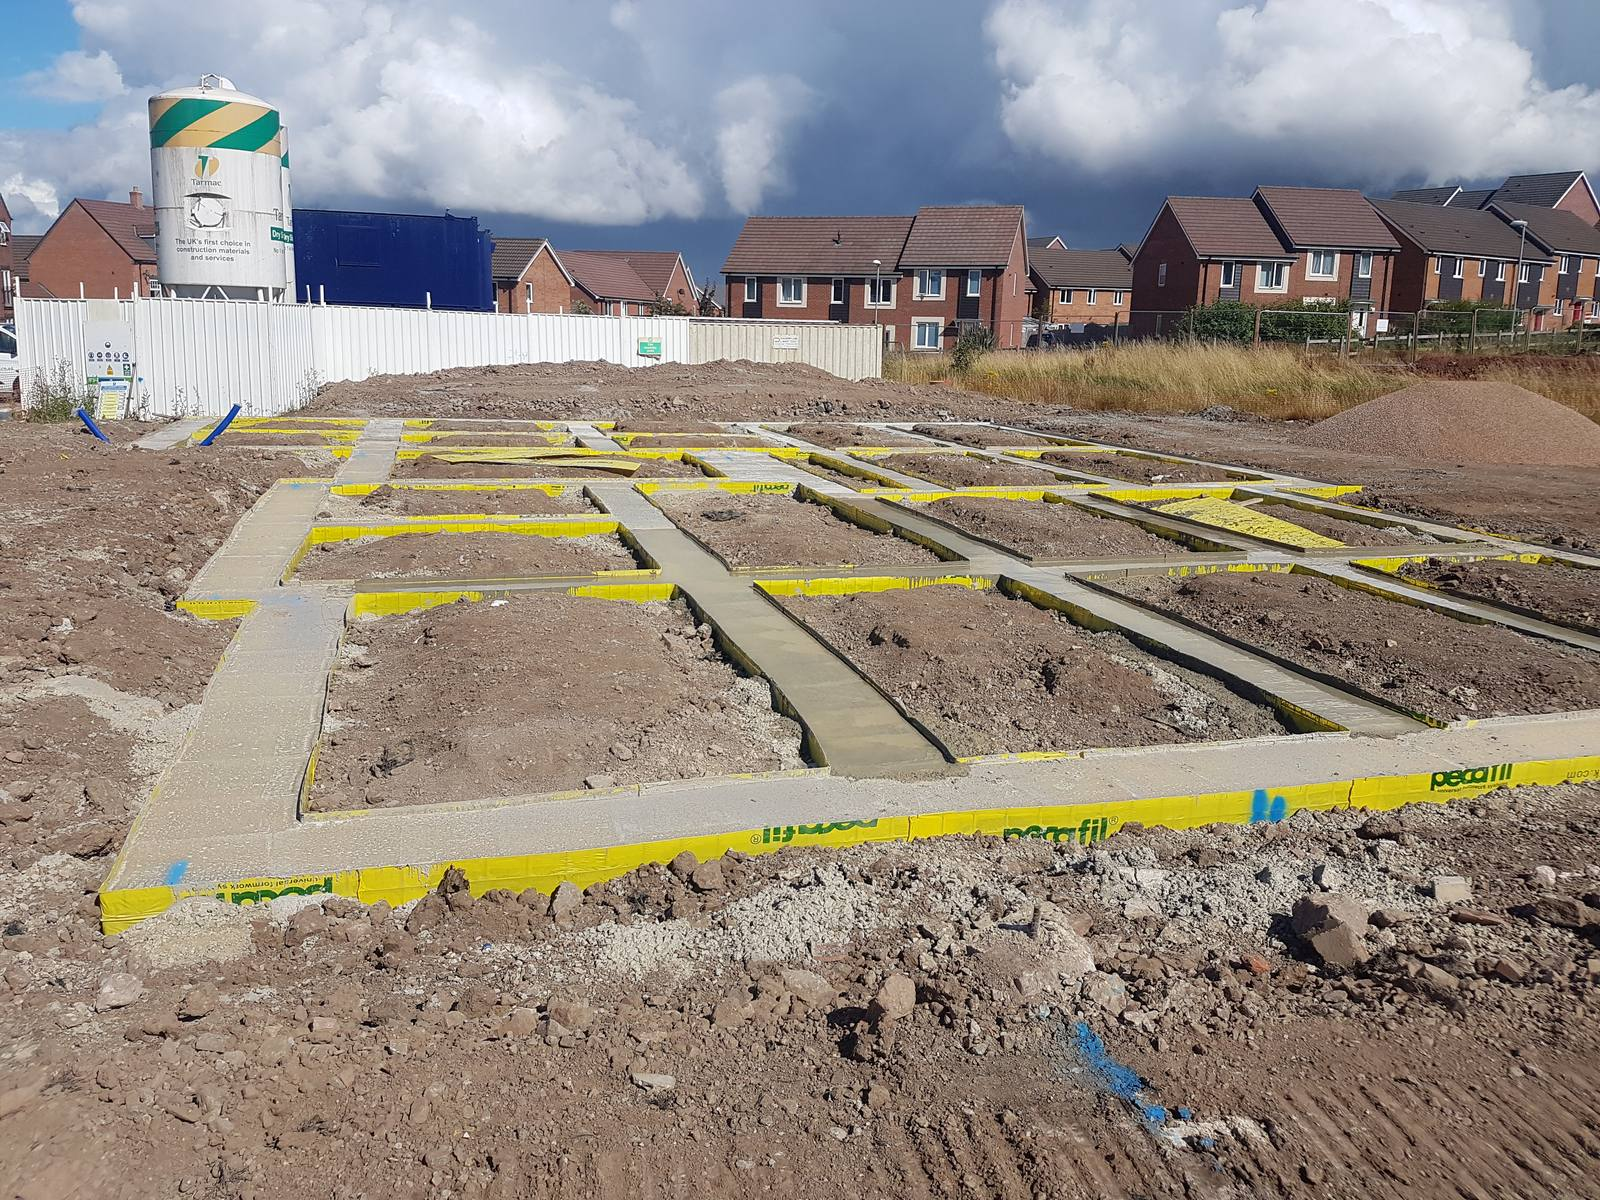
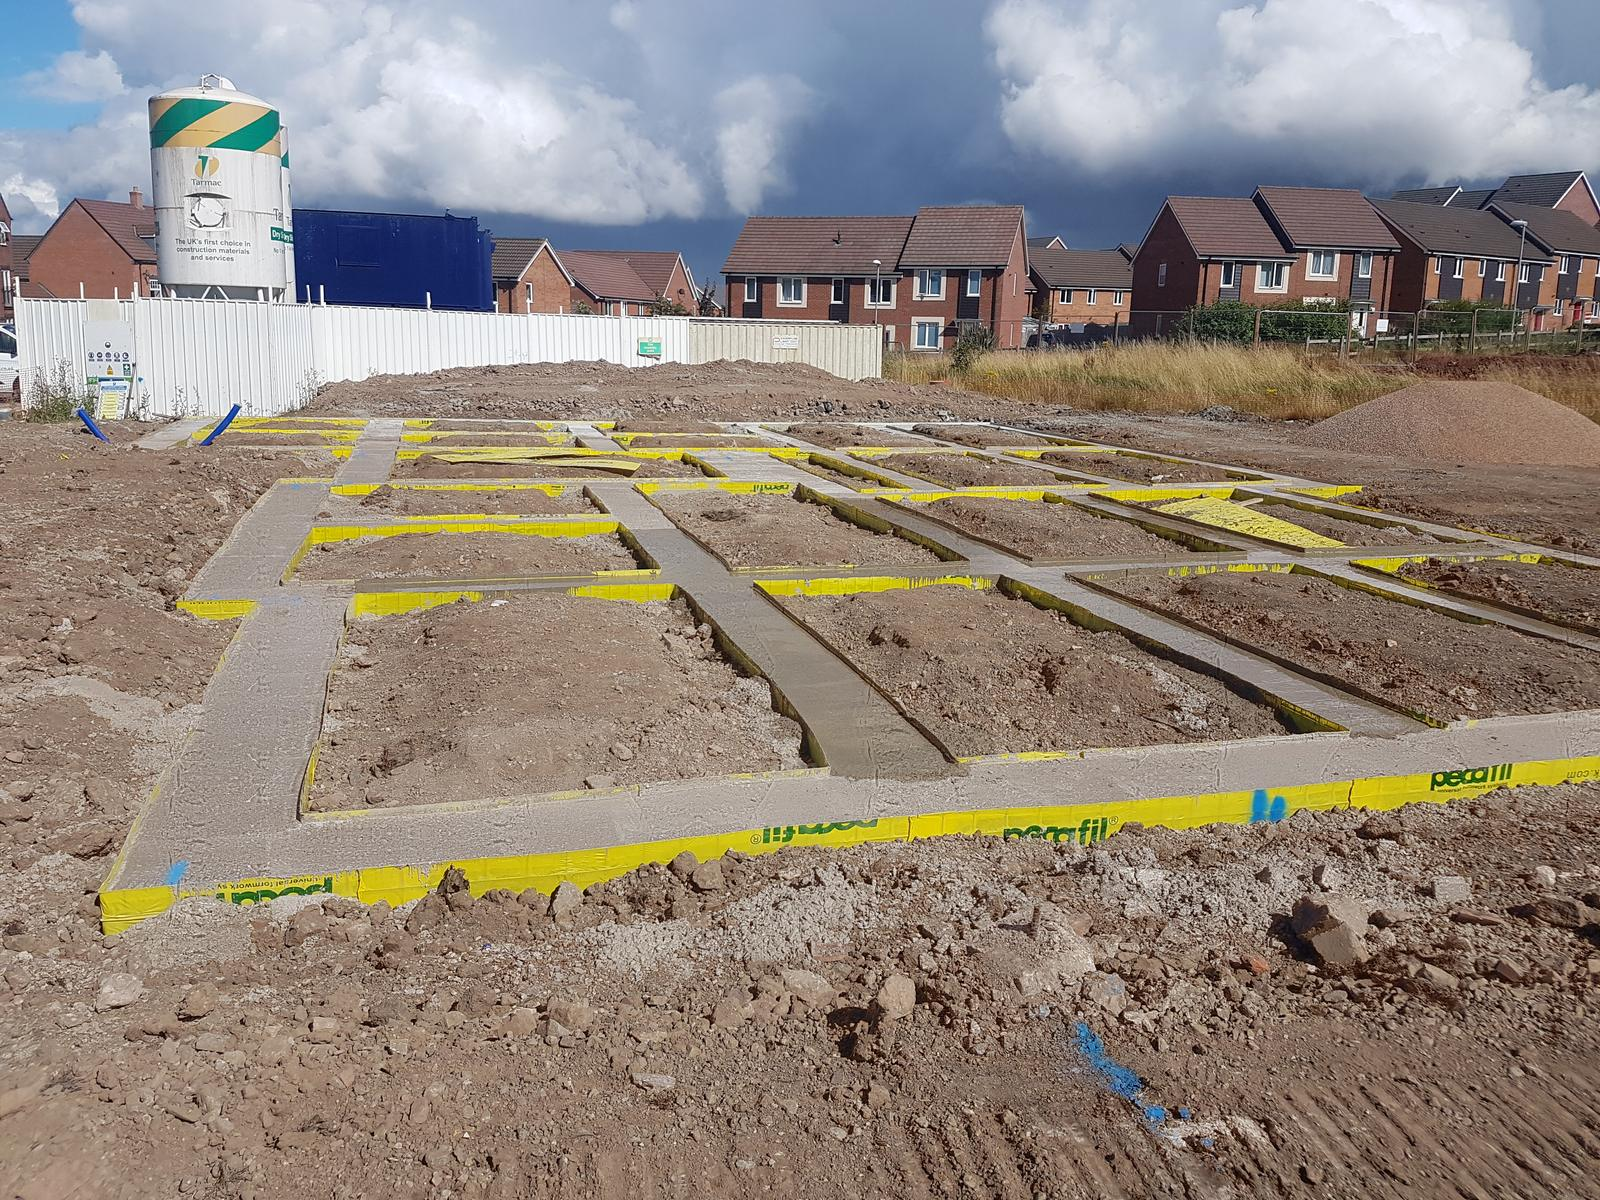
Rework Cam footings re-grade; correct Cosway soakaway caption
The footings blend now does the job properly: histogram tone-match of
the fresh runs to the cured runs plus a grafted high-frequency speckle
texture sampled from the cured concrete, depth-scaled toward the
horizon. Previous version only shifted tone, which left the fresh
pours visibly smooth and green.

Cosway Court card corrected: it is a crate soakaway, not attenuation
(file renamed to cc-soakaway-crates.jpg, title and alt updated).

Claude-Session: https://claude.ai/code/session_01WsqzxTmk4iQk8iexjfgzLU

diff --git a/developments.html b/developments.html
@@ -117,9 +117,9 @@
         </div>
         <div class="work-card">
           <figure>
-            <div class="frame"><img src="assets/img/projects/cosway-court/cc-attenuation-crates.jpg" alt="Attenuation crates being installed in a geotextile-lined excavation at Cosway Court, Stratton" loading="lazy"></div>
+            <div class="frame"><img src="assets/img/projects/cosway-court/cc-soakaway-crates.jpg" alt="Soakaway crates being installed in a geotextile-lined excavation at Cosway Court, Stratton" loading="lazy"></div>
             <figcaption>
-              <div class="work-title">Attenuation &amp; drainage</div>
+              <div class="work-title">Crate soakaway</div>
               <div class="work-meta">Development &middot; Cosway Court, Stratton</div>
             </figcaption>
           </figure>